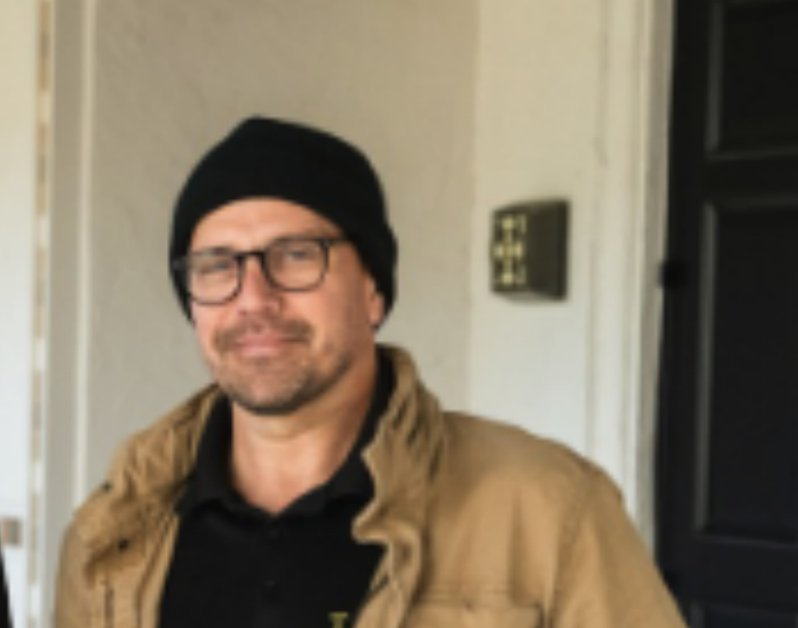
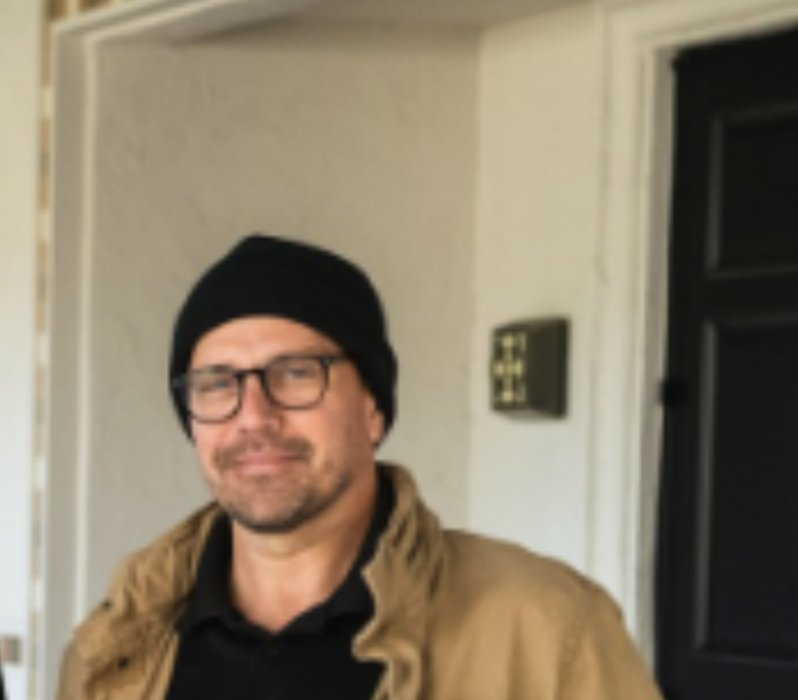
Center faces better in founder card photos
Re-crops both Curtis and Karl's headshots around their actual face
position instead of the top of the frame, and switches the card's
object-position from top to center so the display crop stays
centered on the face too.

diff --git a/about-turfli-scottsdale/index.html b/about-turfli-scottsdale/index.html
@@ -73,7 +73,7 @@ img{max-width:100%;display:block}
 .section-header p{color:var(--text-muted);max-width:560px;margin:0 auto;line-height:1.7}
 .founder-grid{display:grid;grid-template-columns:1fr 1fr;gap:3rem}
 .founder-card{background:var(--white);border-radius:8px;overflow:hidden;border:1px solid var(--border)}
-.founder-img{width:100%;height:280px;object-fit:cover;object-position:top}
+.founder-img{width:100%;height:280px;object-fit:cover;object-position:center}
 .founder-body{padding:2rem}
 .founder-body h3{font-family:var(--font-d);font-size:1.7rem;font-weight:600;color:var(--charcoal);margin-bottom:.3rem}
 .founder-title{font-size:.8rem;font-weight:600;letter-spacing:.08em;text-transform:uppercase;color:var(--copper);margin-bottom:1rem}